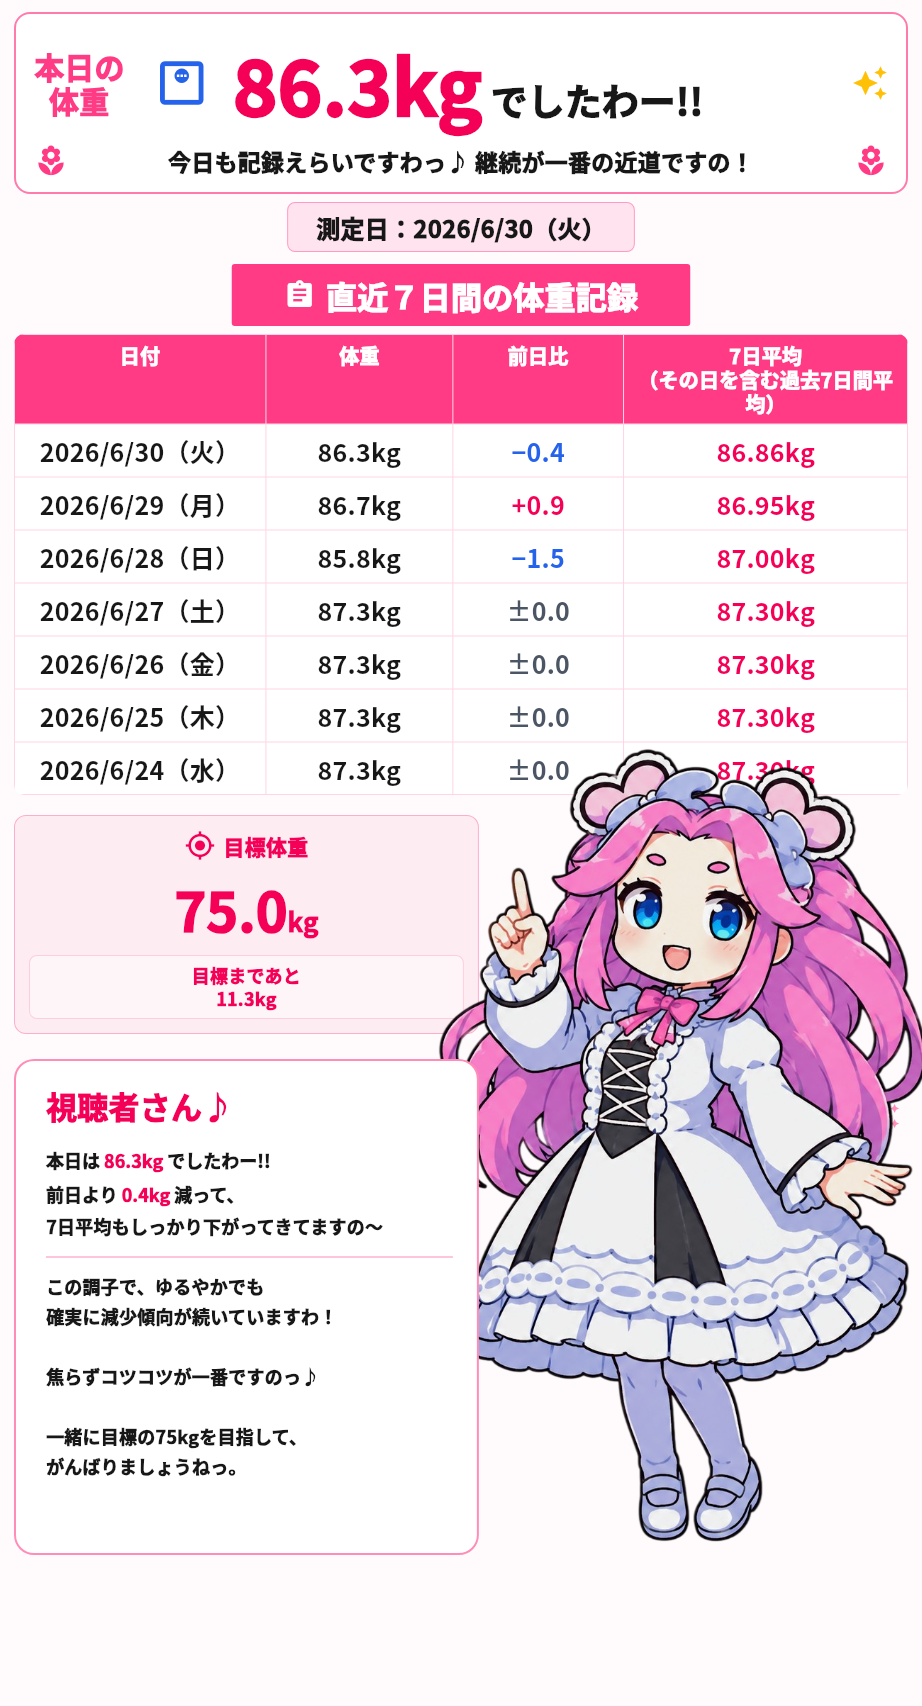
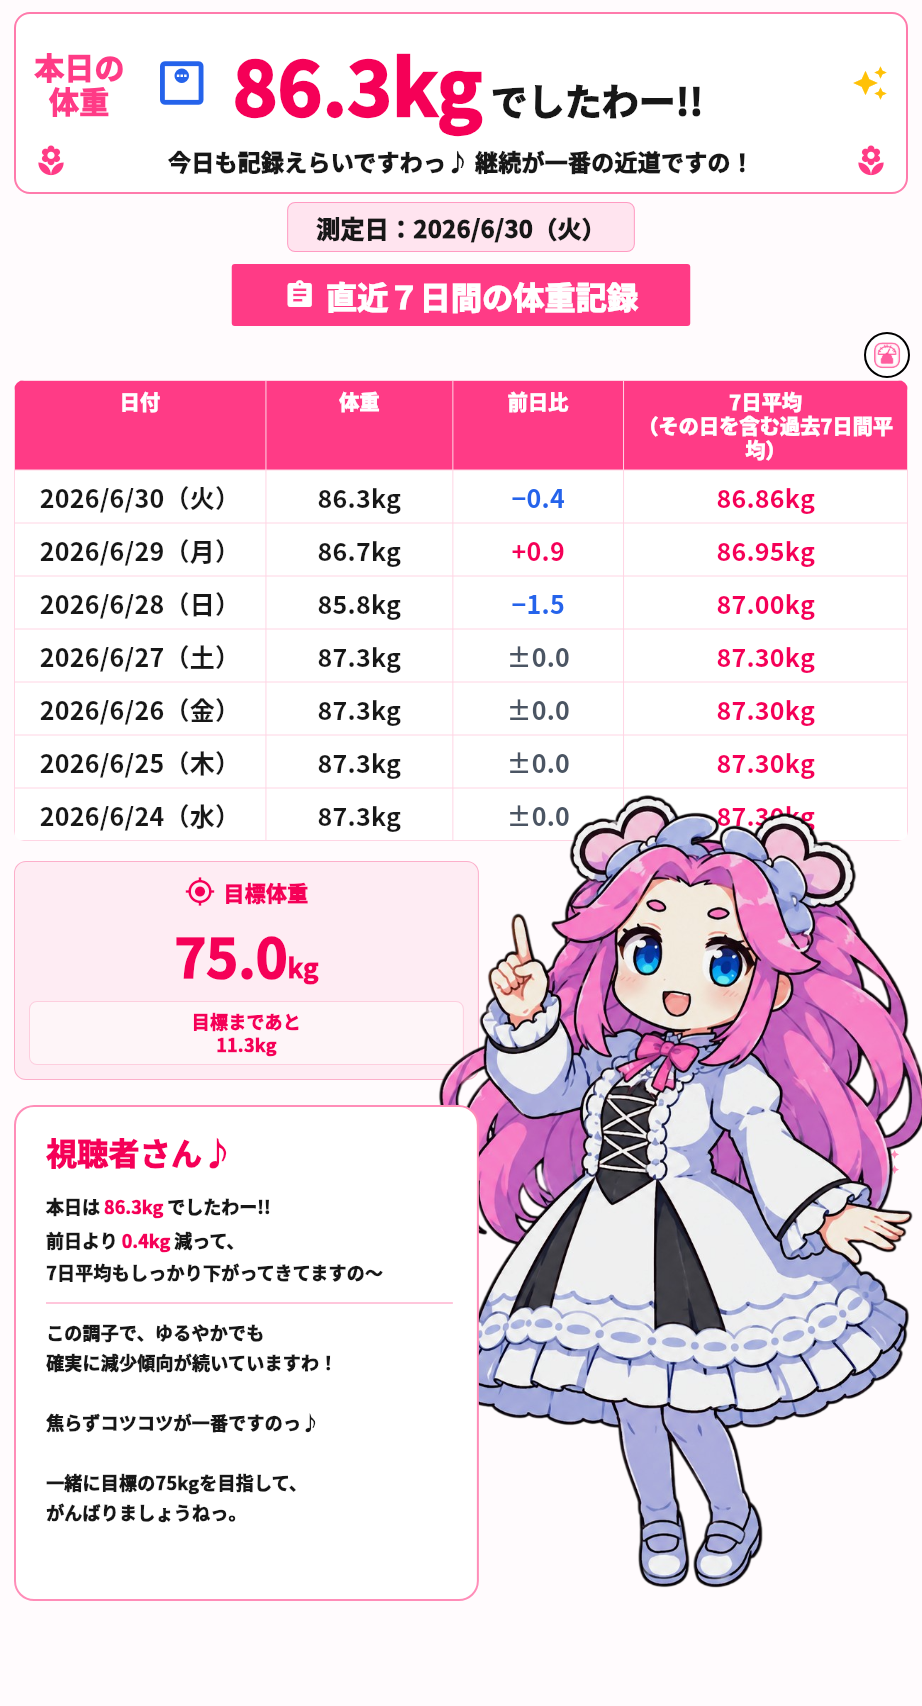
Add report weight input shortcut

Changed region(s): [[0.0, 0.1864, 1.0, 0.932], [0.0, 0.9009, 0.0304, 0.932]]

diff --git a/lib/screens/report_screen.dart b/lib/screens/report_screen.dart
@@ -3,12 +3,14 @@ import 'package:flutter_riverpod/flutter_riverpod.dart';
 
 import '../models/weight_entry.dart';
 import '../providers/weight_providers.dart';
+import 'home_screen.dart';
 
 const _reportPink = Color(0xFFFF3B86);
 const _deepPink = Color(0xFFF50057);
 const _blue = Color(0xFF2563EB);
 const _ink = Color(0xFF171717);
 const _reportCharacterScale = 1.7;
+const _weightInputIconAsset = 'assets/images/weight_input_icon.png';
 
 class ReportScreen extends ConsumerWidget {
   const ReportScreen({super.key});
@@ -311,26 +313,36 @@ class _SevenDayTable extends StatelessWidget {
 
   @override
   Widget build(BuildContext context) {
-    return ClipRRect(
-      borderRadius: BorderRadius.circular(10 * scale),
-      child: Table(
-        border: TableBorder.all(color: const Color(0xFFFFD5E4)),
-        columnWidths: const {
-          0: FlexColumnWidth(1.55),
-          1: FlexColumnWidth(1.15),
-          2: FlexColumnWidth(1.05),
-          3: FlexColumnWidth(1.75),
-        },
-        children: [
-          _tableRow(const [
-            Text('日付'),
-            Text('体重'),
-            Text('前日比'),
-            Text('7日平均\n（その日を含む過去7日間平均）'),
-          ], isHeader: true),
-          ...rows.map((row) => _tableRow(row.cells)),
-        ],
-      ),
+    return Column(
+      crossAxisAlignment: CrossAxisAlignment.stretch,
+      children: [
+        Align(
+          alignment: Alignment.centerRight,
+          child: _WeightInputShortcutButton(scale: scale),
+        ),
+        SizedBox(height: 4 * scale),
+        ClipRRect(
+          borderRadius: BorderRadius.circular(10 * scale),
+          child: Table(
+            border: TableBorder.all(color: const Color(0xFFFFD5E4)),
+            columnWidths: const {
+              0: FlexColumnWidth(1.55),
+              1: FlexColumnWidth(1.15),
+              2: FlexColumnWidth(1.05),
+              3: FlexColumnWidth(1.75),
+            },
+            children: [
+              _tableRow([
+                Text('日付'),
+                Text('体重'),
+                Text('前日比'),
+                Text('7日平均\n（その日を含む過去7日間平均）'),
+              ], isHeader: true),
+              ...rows.map((row) => _tableRow(row.cells)),
+            ],
+          ),
+        ),
+      ],
     );
   }
 
@@ -357,6 +369,44 @@ class _SevenDayTable extends StatelessWidget {
             ),
           )
           .toList(),
+    );
+  }
+}
+
+class _WeightInputShortcutButton extends StatelessWidget {
+  const _WeightInputShortcutButton({required this.scale});
+
+  final double scale;
+
+  @override
+  Widget build(BuildContext context) {
+    return Semantics(
+      button: true,
+      label: '体重入力画面を開く',
+      child: Material(
+        color: Colors.white,
+        shape: const CircleBorder(),
+        elevation: 2,
+        child: InkWell(
+          customBorder: const CircleBorder(),
+          onTap: () {
+            Navigator.of(context).pushReplacement(
+              MaterialPageRoute<void>(
+                builder: (_) => const HomeScreen(forceInput: true),
+              ),
+            );
+          },
+          child: Padding(
+            padding: EdgeInsets.all(4 * scale),
+            child: Image.asset(
+              _weightInputIconAsset,
+              width: 34 * scale,
+              height: 34 * scale,
+              semanticLabel: '体重入力アイコン',
+            ),
+          ),
+        ),
+      ),
     );
   }
 }

diff --git a/test/home_screen_golden_test.dart b/test/home_screen_golden_test.dart
@@ -16,6 +16,7 @@ const _requiredImageAssets = <String>[
   'assets/images/character_report.png',
   'assets/images/cloud_top.png',
   'assets/images/cloud_bottom.png',
+  'assets/images/weight_input_icon.png',
 ];
 
 Future<void> _pumpHomeScreen(
@@ -249,6 +250,8 @@ void main() {
     );
     expect(find.text('本日の\n体重'), findsOneWidget);
     expect(find.text('直近７日間の体重記録'), findsOneWidget);
+    expect(find.bySemanticsLabel('体重入力画面を開く'), findsOneWidget);
+    expect(find.bySemanticsLabel('体重入力アイコン'), findsOneWidget);
     expect(find.text('日付'), findsOneWidget);
     expect(find.textContaining('JST'), findsNothing);
     expect(find.text('視聴者さん♪'), findsOneWidget);
@@ -260,6 +263,45 @@ void main() {
       find.byType(ReportScreen),
       matchesGoldenFile('../docs/screenshots/report-screen.png'),
     );
+  });
+
+  testWidgets('weight input icon opens forced input screen from report', (
+    tester,
+  ) async {
+    await tester.binding.setSurfaceSize(const Size(922, 1706));
+    addTearDown(() => tester.binding.setSurfaceSize(null));
+    final now = DateTime.now();
+    final today = DateTime(now.year, now.month, now.day);
+
+    await tester.pumpWidget(
+      ProviderScope(
+        overrides: [
+          weightEntriesProvider.overrideWith(
+            (ref) => Stream.value([WeightEntry(date: today, weightKg: 85.3)]),
+          ),
+        ],
+        child: MaterialApp(
+          debugShowCheckedModeBanner: false,
+          theme: ThemeData(
+            colorScheme: ColorScheme.fromSeed(
+              seedColor: const Color(0xFFEF5EA8),
+            ),
+            fontFamily: _fontFamily,
+            scaffoldBackgroundColor: const Color(0xFFFFF7FB),
+            useMaterial3: true,
+          ),
+          home: const ReportScreen(),
+        ),
+      ),
+    );
+    await tester.pumpAndSettle();
+
+    await tester.tap(find.bySemanticsLabel('体重入力画面を開く'));
+    await tester.pumpAndSettle();
+
+    expect(find.byType(HomeScreen), findsOneWidget);
+    expect(find.byType(TextFormField), findsOneWidget);
+    expect(find.byType(ReportScreen), findsNothing);
   });
 
   testWidgets('shows an error dialog when automatic save fails', (

diff --git a/lib/screens/home_screen.dart b/lib/screens/home_screen.dart
@@ -10,7 +10,9 @@ import '../services/app_error_handler.dart';
 import 'report_screen.dart';
 
 class HomeScreen extends ConsumerStatefulWidget {
-  const HomeScreen({super.key});
+  const HomeScreen({super.key, this.forceInput = false});
+
+  final bool forceInput;
 
   @override
   ConsumerState<HomeScreen> createState() => _HomeScreenState();
@@ -134,7 +136,10 @@ class _HomeScreenState extends ConsumerState<HomeScreen> {
 
     return entriesAsync.when(
       data: (entries) {
-        if (!_isSavingWeight && !_isCelebrating && _hasTodayEntry(entries)) {
+        if (!widget.forceInput &&
+            !_isSavingWeight &&
+            !_isCelebrating &&
+            _hasTodayEntry(entries)) {
           return const ReportScreen();
         }
 
